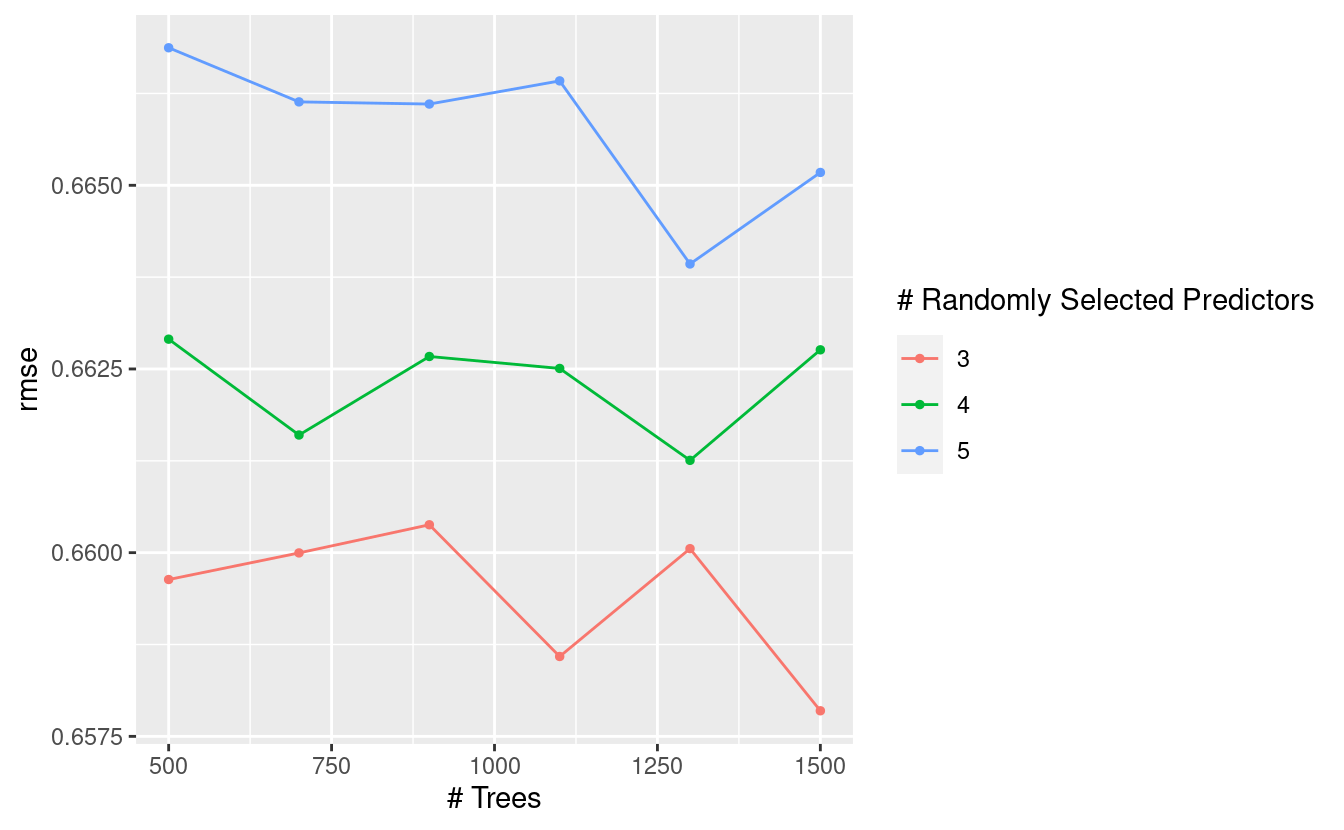
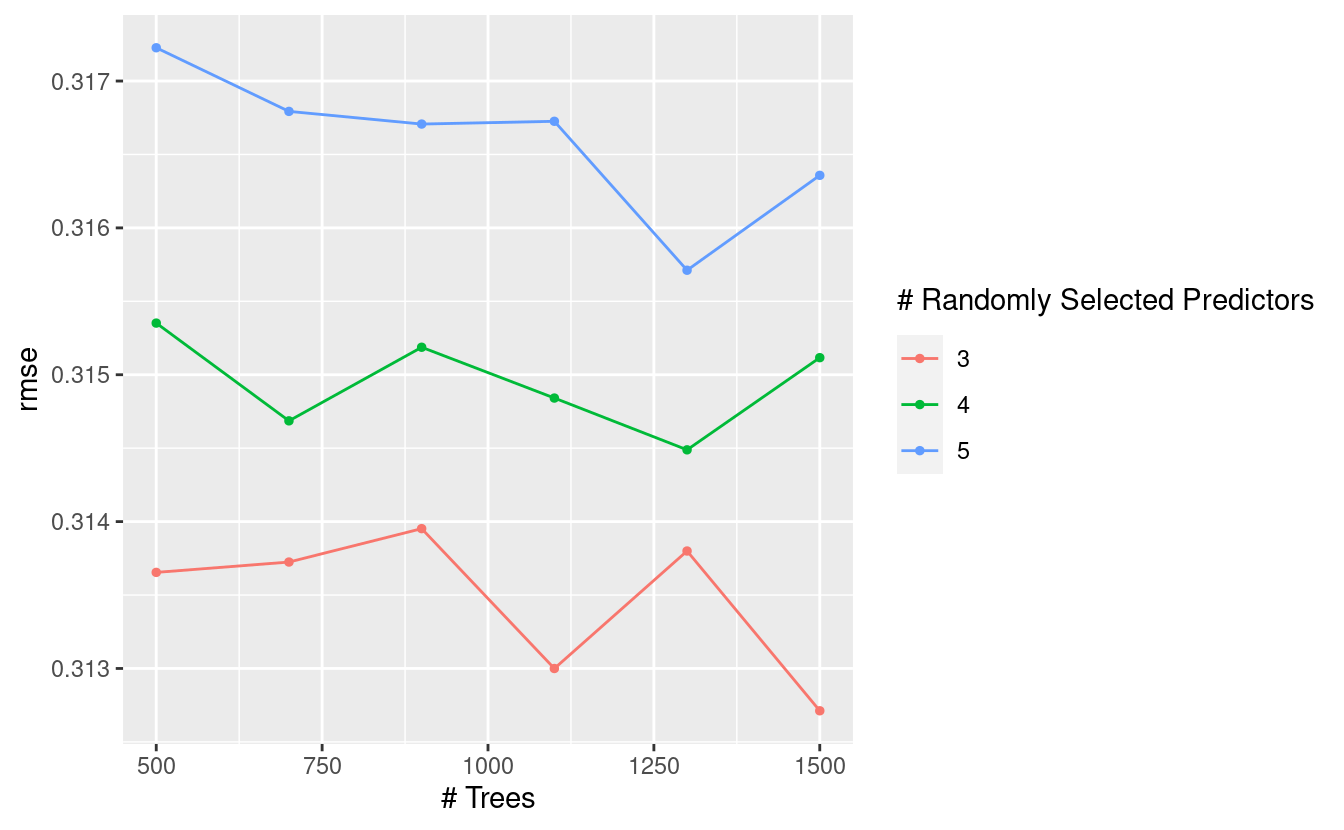
Explicitly load targets so it appears in session_info

diff --git a/content/post/2020-07-26-machine-learning-pipelines-with-tidymodels-and-targets/index.md b/content/post/2020-07-26-machine-learning-pipelines-with-tidymodels-and-targets/index.md
@@ -7,7 +7,7 @@ tags:
     - R
 images: ["/img/coffee-pipeline.png"]
 output: hugodown::md_document
-rmd_hash: cb78b59e809c4d1e
+rmd_hash: 00a9c431b40be18b
 
 ---
 
@@ -79,14 +79,14 @@ The split between test and train is sacred. I start a model by splitting out the
 
 It is very easy to accidentally leak data from test to train. Suppose I have some missing values that I want to impute with the mean. If I impute using the mean of the entire data set, then that's data leakage. Suppose I scale and centre my numeric variables. I use the mean and variance of the entire data set, then that's data leakage.
 
-The usual methods of manipulating data often aren't suitable for preprocessing modelling data. It's easy enough to centre and scale a variable with `mutate()`, but we need specialist tools for machine learning that respect the split between test and train. That's what `recipes` are for.
+The usual methods of manipulating data often aren't suitable for preprocessing modelling data. It's easy enough to centre and scale a variable with `mutate()`, but data manipulation for machine learning requires tools that respect the split between test and train. That's what `recipes` are for.
 
 Preprocessing with recipes
 --------------------------
 
 In `tidymodels`, [preprocessing is done with recipes](/post/user-recipes-for-data-processing/). There's a particular language for preprocessing with `recipes`, and it follows a common (and cute) theme. A `recipe` abstractly defines how to manipulate the data. It is then `prep`ared on a training set, and can be used to `bake` new data.
 
-Recipes require an understanding of which variables are predictors and which are outcomes (it would make no sense to preprocess the outcome of the test set). Traditionally in R we would specify a model with a formula, like `cupper_points ~ flavour + aroma`, or `cupper_points ~ .` if we want to use everything as a predictor. Instead, I'm going to use the "role" approach that `recipes` takes to declare some variables as predictors and `cupper_points` as an outcome. The rest will be "support" variables, some of which will be used in imputation. I like this approach, since it means that I don't need to maintain a list of variables to be fed to the `fit` function. Instead, the `fit` function will only use the variables with the "predictor" role.
+Recipes require an understanding of which variables are predictors and which are outcomes (it would make no sense to preprocess the outcome of the test set). Traditionally in R this is done with a formula, like `cupper_points ~ flavour + aroma`, or `cupper_points ~ .` if everything as a predictor. Instead, I'm going to use the "role" approach that `recipes` takes to declare some variables as predictors and `cupper_points` as an outcome. The rest will be "support" variables, some of which will be used in imputation. I like this approach, since it means that I don't need to maintain a list of variables to be fed to the `fit` function. Instead, the `fit` function will only use the variables with the "predictor" role.
 
 The recipe I'll use defines the steps below. Just a heads up: I'm not claiming that this is *good* preprocessing. I haven't even seen what the impact of this preprocessing is on the resulting model. I'm just using this as an example of some preprocessing steps.
 
@@ -100,7 +100,7 @@ The recipe I'll use defines the steps below. Just a heads up: I'm not claiming t
 <div class="highlight">
 
 <pre class='chroma'><code class='language-r' data-lang='r'><span class='k'>coffee_recipe</span> <span class='o'>&lt;-</span> <span class='nf'>recipe</span>(<span class='k'>coffee_train</span>) <span class='o'>%&gt;%</span>
-  <span class='nf'>update_role</span>(<span class='nf'>everything</span>(), new_role = <span class='s'>"support"</span>) <span class='o'>%&gt;%</span> 
+  <span class='nf'>update_role</span>(<span class='nf'><a href='https://tidyselect.r-lib.org/reference/everything.html'>everything</a></span>(), new_role = <span class='s'>"support"</span>) <span class='o'>%&gt;%</span> 
   <span class='nf'>update_role</span>(<span class='k'>cupper_points</span>, new_role = <span class='s'>"outcome"</span>) <span class='o'>%&gt;%</span>
   <span class='nf'>update_role</span>(
     <span class='k'>variety</span>, <span class='k'>processing_method</span>, <span class='k'>country_of_origin</span>,
@@ -260,7 +260,7 @@ I'll use cross-validation on `coffee_train` to evaluate the performance of each 
 
 </div>
 
-Here's where we search through the hyperparameter space. With 5 folds and 18 combinations of hyperparameters to explore, R has to train and evaluate 90 models. In general, this sort of tuning takes a while. I could speed this up with parallel processing, but I'm not sure it's worth the hassle for such a small data set.
+Here's where I search through the hyperparameter space. With 5 folds and 18 combinations of hyperparameters to explore, R has to train and evaluate 90 models. In general, this sort of tuning takes a while. I could speed this up with parallel processing, but I'm not sure it's worth the hassle for such a small data set.
 
 <div class="highlight">
 
@@ -285,12 +285,12 @@ Now it's time to see how the models performed! I'll look at root mean squared er
 
 |  mtry|  trees| .metric | .estimator |       mean|    n|   std\_err| .config |
 |-----:|------:|:--------|:-----------|----------:|----:|----------:|:--------|
-|     3|   1500| rmse    | standard   |  0.6578480|    5|  0.1435745| Model06 |
-|     3|   1100| rmse    | standard   |  0.6585869|    5|  0.1433251| Model04 |
-|     3|    500| rmse    | standard   |  0.6596345|    5|  0.1437608| Model01 |
-|     3|    700| rmse    | standard   |  0.6599965|    5|  0.1437455| Model02 |
-|     3|   1300| rmse    | standard   |  0.6600544|    5|  0.1434096| Model05 |
-|     3|    900| rmse    | standard   |  0.6603797|    5|  0.1435015| Model03 |
+|     3|   1500| rmse    | standard   |  0.3127119|    5|  0.0565917| Model06 |
+|     3|   1100| rmse    | standard   |  0.3129998|    5|  0.0563920| Model04 |
+|     3|    500| rmse    | standard   |  0.3136543|    5|  0.0565772| Model01 |
+|     3|    700| rmse    | standard   |  0.3137247|    5|  0.0565831| Model02 |
+|     3|   1300| rmse    | standard   |  0.3137998|    5|  0.0564674| Model05 |
+|     3|    900| rmse    | standard   |  0.3139521|    5|  0.0565038| Model03 |
 
 </div>
 
@@ -313,11 +313,11 @@ The goal is to minimise RMSE. I can take a look at the hyperparameter combinatio
 
 |  mtry|  trees| .metric | .estimator |       mean|    n|   std\_err| .config |
 |-----:|------:|:--------|:-----------|----------:|----:|----------:|:--------|
-|     3|   1500| rmse    | standard   |  0.6578480|    5|  0.1435745| Model06 |
-|     3|   1100| rmse    | standard   |  0.6585869|    5|  0.1433251| Model04 |
-|     3|    500| rmse    | standard   |  0.6596345|    5|  0.1437608| Model01 |
-|     3|    700| rmse    | standard   |  0.6599965|    5|  0.1437455| Model02 |
-|     3|   1300| rmse    | standard   |  0.6600544|    5|  0.1434096| Model05 |
+|     3|   1500| rmse    | standard   |  0.3127119|    5|  0.0565917| Model06 |
+|     3|   1100| rmse    | standard   |  0.3129998|    5|  0.0563920| Model04 |
+|     3|    500| rmse    | standard   |  0.3136543|    5|  0.0565772| Model01 |
+|     3|    700| rmse    | standard   |  0.3137247|    5|  0.0565831| Model02 |
+|     3|   1300| rmse    | standard   |  0.3137998|    5|  0.0564674| Model05 |
 
 </div>
 
@@ -331,9 +331,9 @@ I think it's worth cutting back on accuracy a tiny bit if it means simplifying t
   <span class='k'>knitr</span>::<span class='nf'><a href='https://rdrr.io/pkg/knitr/man/kable.html'>kable</a></span>()
 </code></pre>
 
-|  mtry|  trees| .metric | .estimator |       mean|    n|   std\_err| .config |     .best|     .loss|
-|-----:|------:|:--------|:-----------|----------:|----:|----------:|:--------|---------:|---------:|
-|     5|    500| rmse    | standard   |  0.6668716|    5|  0.1404409| Model13 |  0.657848|  1.371686|
+|  mtry|  trees| .metric | .estimator |       mean|    n|   std\_err| .config |      .best|     .loss|
+|-----:|------:|:--------|:-----------|----------:|----:|----------:|:--------|----------:|---------:|
+|     5|    500| rmse    | standard   |  0.3172264|    5|  0.0549082| Model13 |  0.3127119|  1.443642|
 
 </div>
 
@@ -477,6 +477,7 @@ What I love about this orchestration is that I can see where the dependencies ar
 <span class='c'>#&gt;  codetools     0.2-16     2018-12-24 [4] CRAN (R 4.0.0)                    </span>
 <span class='c'>#&gt;  colorspace    1.4-1      2019-03-18 [1] CRAN (R 4.0.0)                    </span>
 <span class='c'>#&gt;  crayon        1.3.4      2017-09-16 [1] CRAN (R 4.0.0)                    </span>
+<span class='c'>#&gt;  data.table    1.13.0     2020-07-24 [1] CRAN (R 4.0.0)                    </span>
 <span class='c'>#&gt;  DBI           1.1.0      2019-12-15 [1] CRAN (R 4.0.0)                    </span>
 <span class='c'>#&gt;  dbplyr        1.4.4      2020-05-27 [1] CRAN (R 4.0.0)                    </span>
 <span class='c'>#&gt;  desc          1.2.0      2018-05-01 [1] CRAN (R 4.0.0)                    </span>
@@ -510,6 +511,7 @@ What I love about this orchestration is that I can see where the dependencies ar
 <span class='c'>#&gt;  htmltools     0.5.0      2020-06-16 [1] CRAN (R 4.0.0)                    </span>
 <span class='c'>#&gt;  httr          1.4.2      2020-07-20 [1] CRAN (R 4.0.0)                    </span>
 <span class='c'>#&gt;  hugodown      0.0.0.9000 2020-07-25 [1] Github (r-lib/hugodown@3980496)   </span>
+<span class='c'>#&gt;  igraph        1.2.5      2020-03-19 [1] CRAN (R 4.0.0)                    </span>
 <span class='c'>#&gt;  infer       * 0.5.3      2020-07-14 [1] CRAN (R 4.0.0)                    </span>
 <span class='c'>#&gt;  ipred         0.9-9      2019-04-28 [1] CRAN (R 4.0.0)                    </span>
 <span class='c'>#&gt;  iterators     1.0.12     2019-07-26 [1] CRAN (R 4.0.0)                    </span>
@@ -562,6 +564,7 @@ What I love about this orchestration is that I can see where the dependencies ar
 <span class='c'>#&gt;  stringi       1.4.6      2020-02-17 [1] CRAN (R 4.0.0)                    </span>
 <span class='c'>#&gt;  stringr     * 1.4.0      2019-02-10 [1] CRAN (R 4.0.0)                    </span>
 <span class='c'>#&gt;  survival      3.1-12     2020-04-10 [4] CRAN (R 4.0.0)                    </span>
+<span class='c'>#&gt;  targets     * 0.0.0.9000 2020-07-25 [1] Github (wlandau/targets@1455610)  </span>
 <span class='c'>#&gt;  testthat      2.3.2      2020-03-02 [1] CRAN (R 4.0.0)                    </span>
 <span class='c'>#&gt;  tibble      * 3.0.3      2020-07-10 [1] CRAN (R 4.0.0)                    </span>
 <span class='c'>#&gt;  tidymodels  * 0.1.1      2020-07-14 [1] CRAN (R 4.0.0)                    </span>
